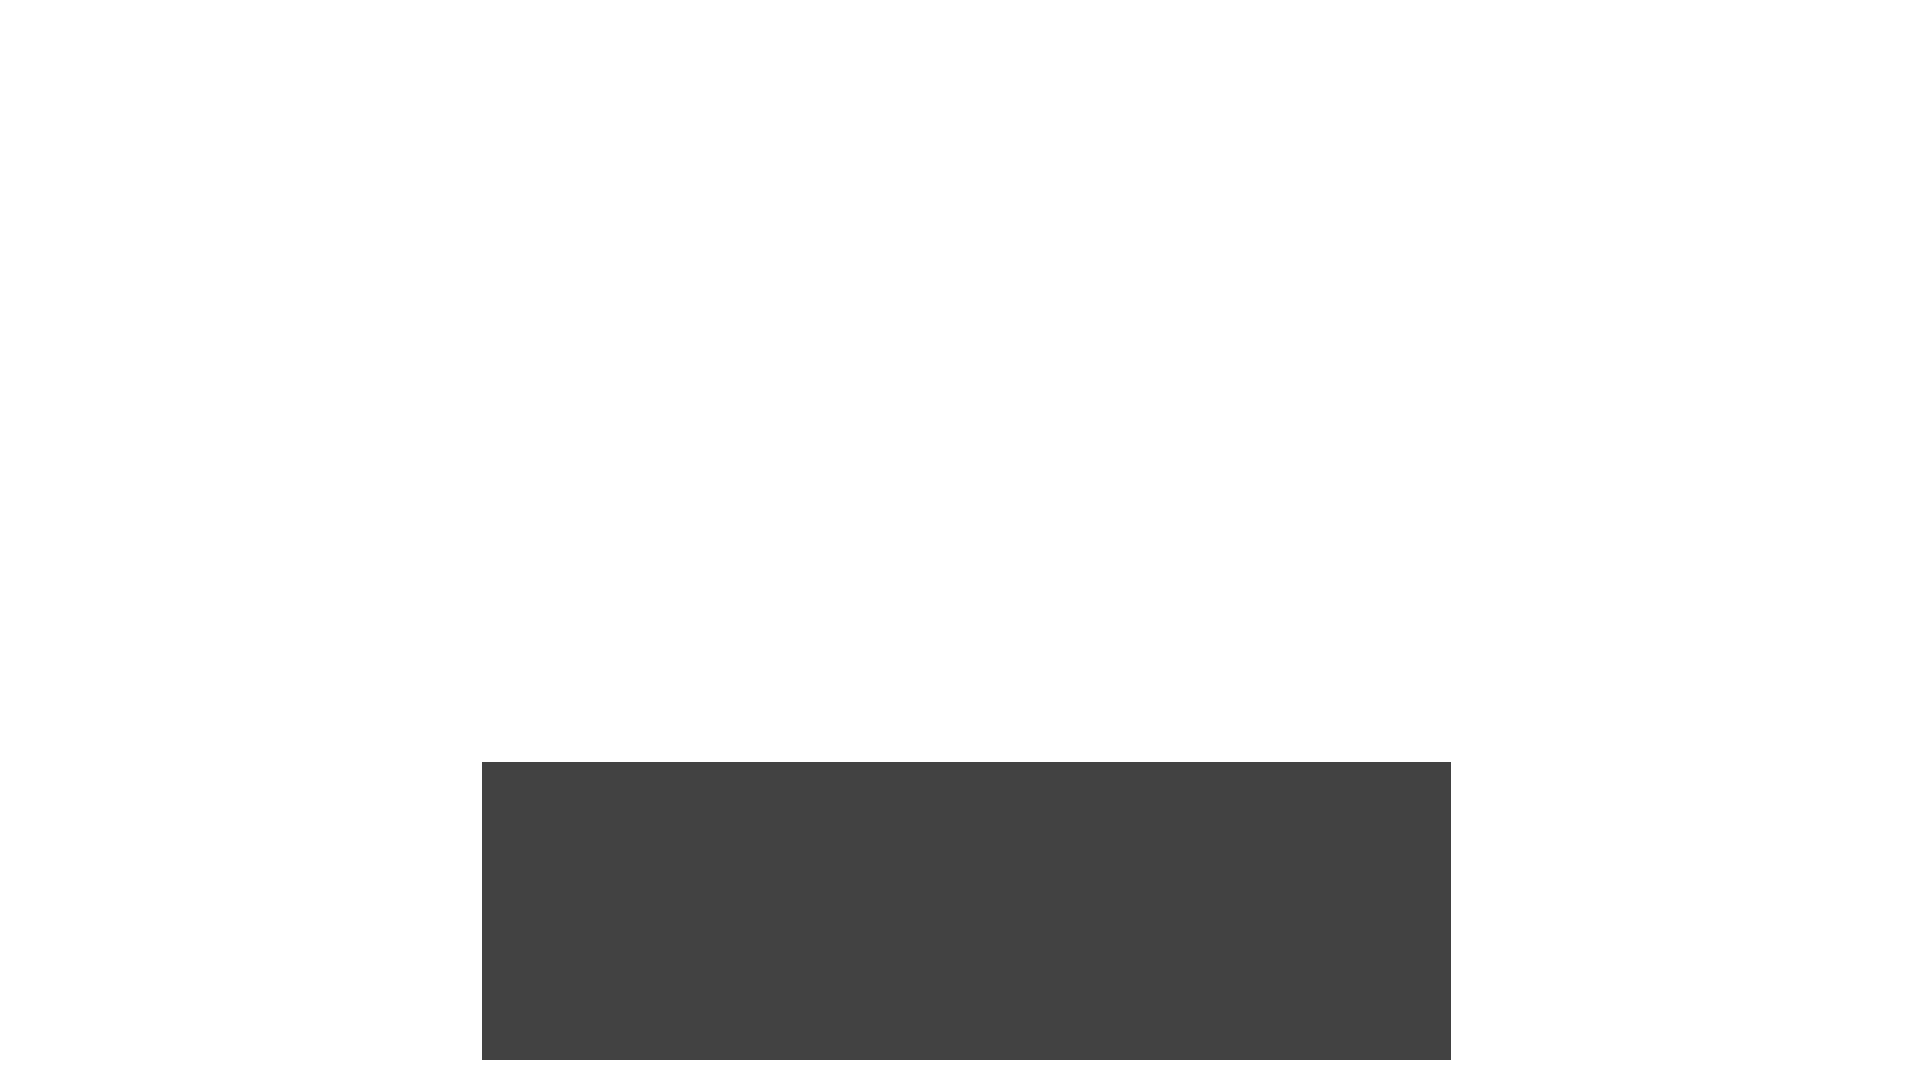
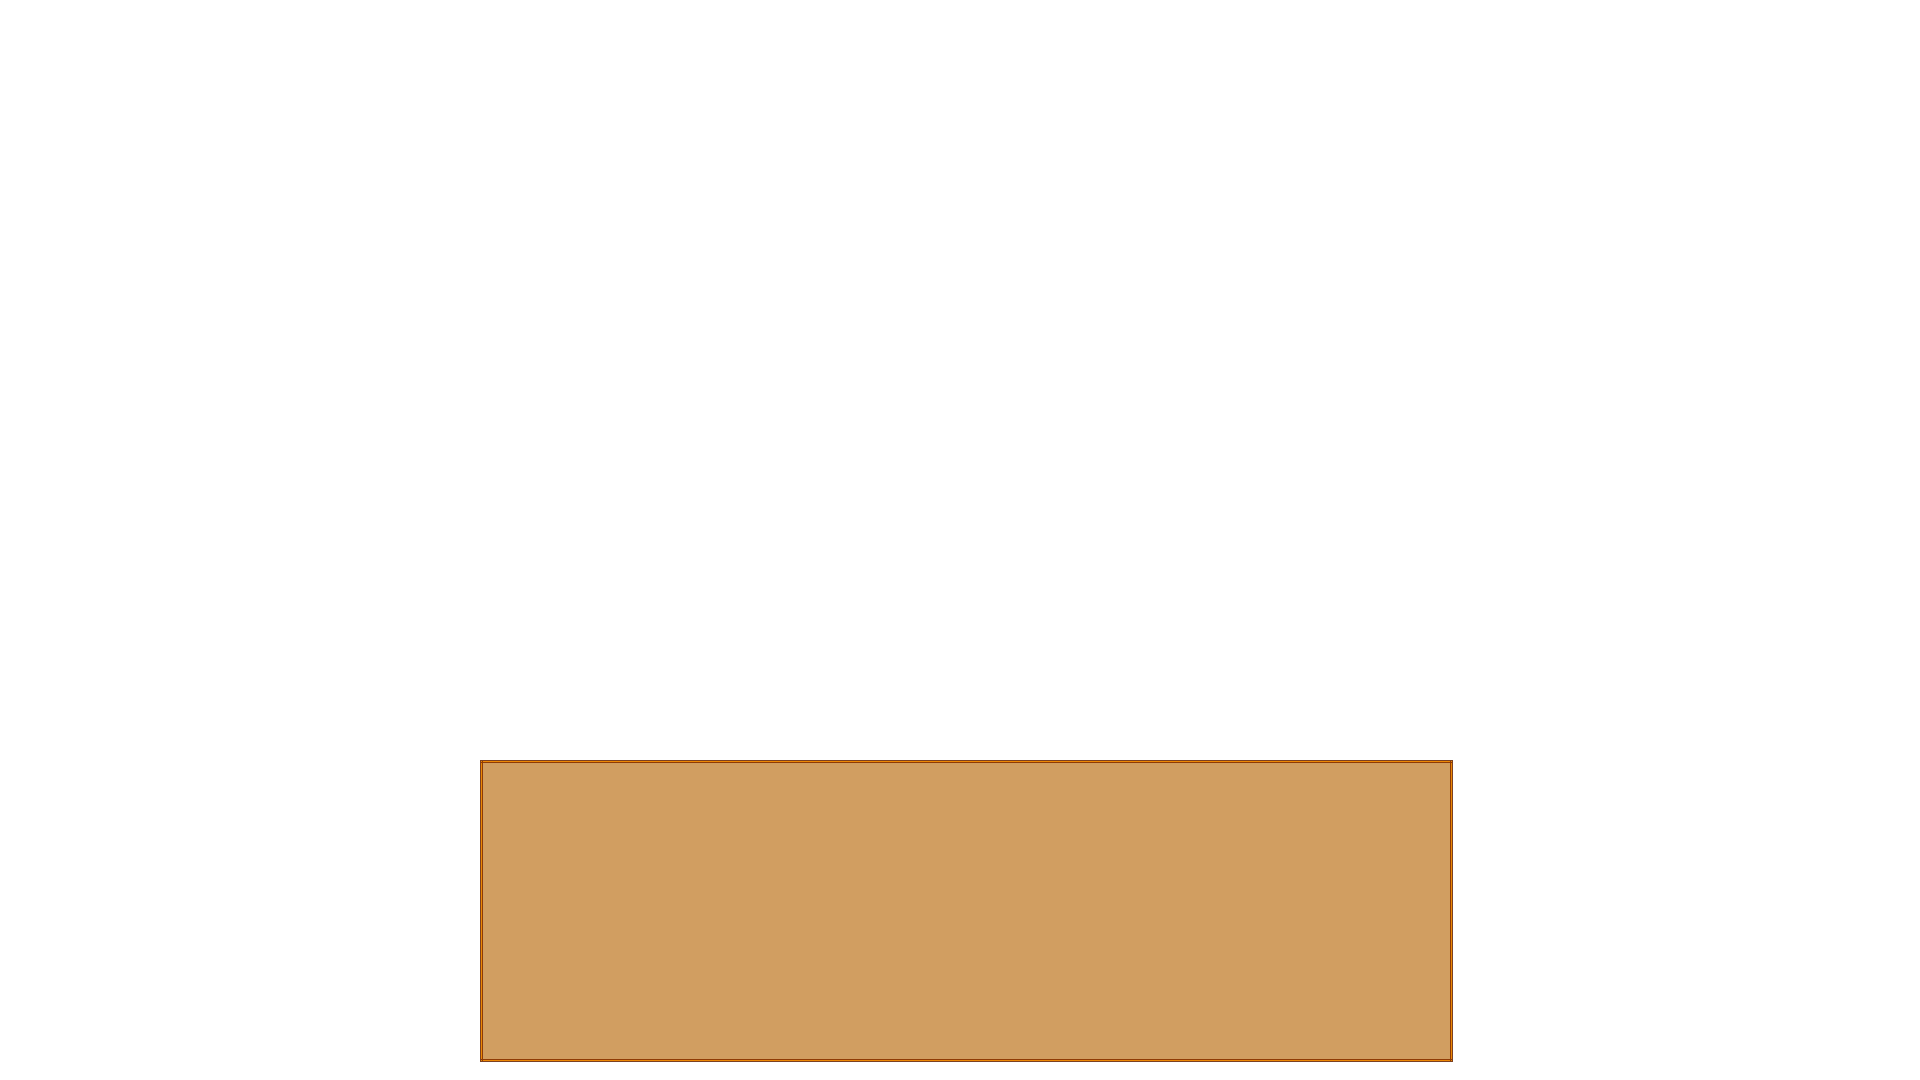
Updated interface

Changed region(s): [[0.25, 0.7028, 0.7812, 1.0]]

diff --git a/src/gui/DialogueWindow.java b/src/gui/DialogueWindow.java
@@ -200,7 +200,7 @@ public class DialogueWindow {
 				for(int i = 0; i <= currentDialogues.size(); i++) {
 					Color fontColor;
 					if(i == selectedOption) {
-						fontColor = Color.white;
+						fontColor = Color.black;
 					} else {
 						fontColor = Color.gray;
 					}
@@ -218,9 +218,9 @@ public class DialogueWindow {
 			} else {
 				Color fontColor;
 				if(!currentSpeaker.equals("Hero")) {
-					fontColor = Color.yellow;
+					fontColor = Color.gray;
 				} else {
-					fontColor = Color.white;
+					fontColor = Color.black;
 				}
 				ttf.drawString(Main.WIDTH/2 - ttf.getWidth(currentSpeaker)/2, 763, currentSpeaker, fontColor);
 								

diff --git a/src/gui/TradingWindow.java b/src/gui/TradingWindow.java
@@ -400,7 +400,7 @@ public class TradingWindow {
 			g.drawImage(selectedCellImage, 1484 + playerSelectedCellX * 78, 305 + playerSelectedCellY * 78);	
 		}
 		
-		g.setColor(Color.white);
+		g.setColor(Color.black);
 		
 		g.drawString("Gold: ", 1733, 239);
 		g.drawString(String.valueOf(player.getInventoryWindow().getGoldCounter()), 1853 - Integer.toString(player.getInventoryWindow().getGoldCounter()).length() * 9, 239);

diff --git a/src/gui/NewItemWindow.java b/src/gui/NewItemWindow.java
@@ -43,7 +43,7 @@ public class NewItemWindow {
 		if(isWindowOpen) {
 			g.drawImage(image, 0, 0);
 			currentItem.getItemType().getInventoryAnimation().draw(773, 823);
-			g.setColor(Color.white);
+			g.setColor(Color.black);
 			
 			String itemName = currentItem.getItemType().getName();
 			g.drawString(itemName, Main.WIDTH/2 - (itemName.length() * 9)/2 + 32, 844);

diff --git a/src/gui/InventoryWindow.java b/src/gui/InventoryWindow.java
@@ -410,7 +410,7 @@ public class InventoryWindow {
 			g.drawImage(inventoryImage, 0, 0);
 			g.drawImage(selectedCellImage, 1484 + selectedCellX * 78, 305 + selectedCellY * 78);
 			
-			g.setColor(Color.white);
+			g.setColor(Color.black);
 			
 			drawPlayerStats(g);
 			
